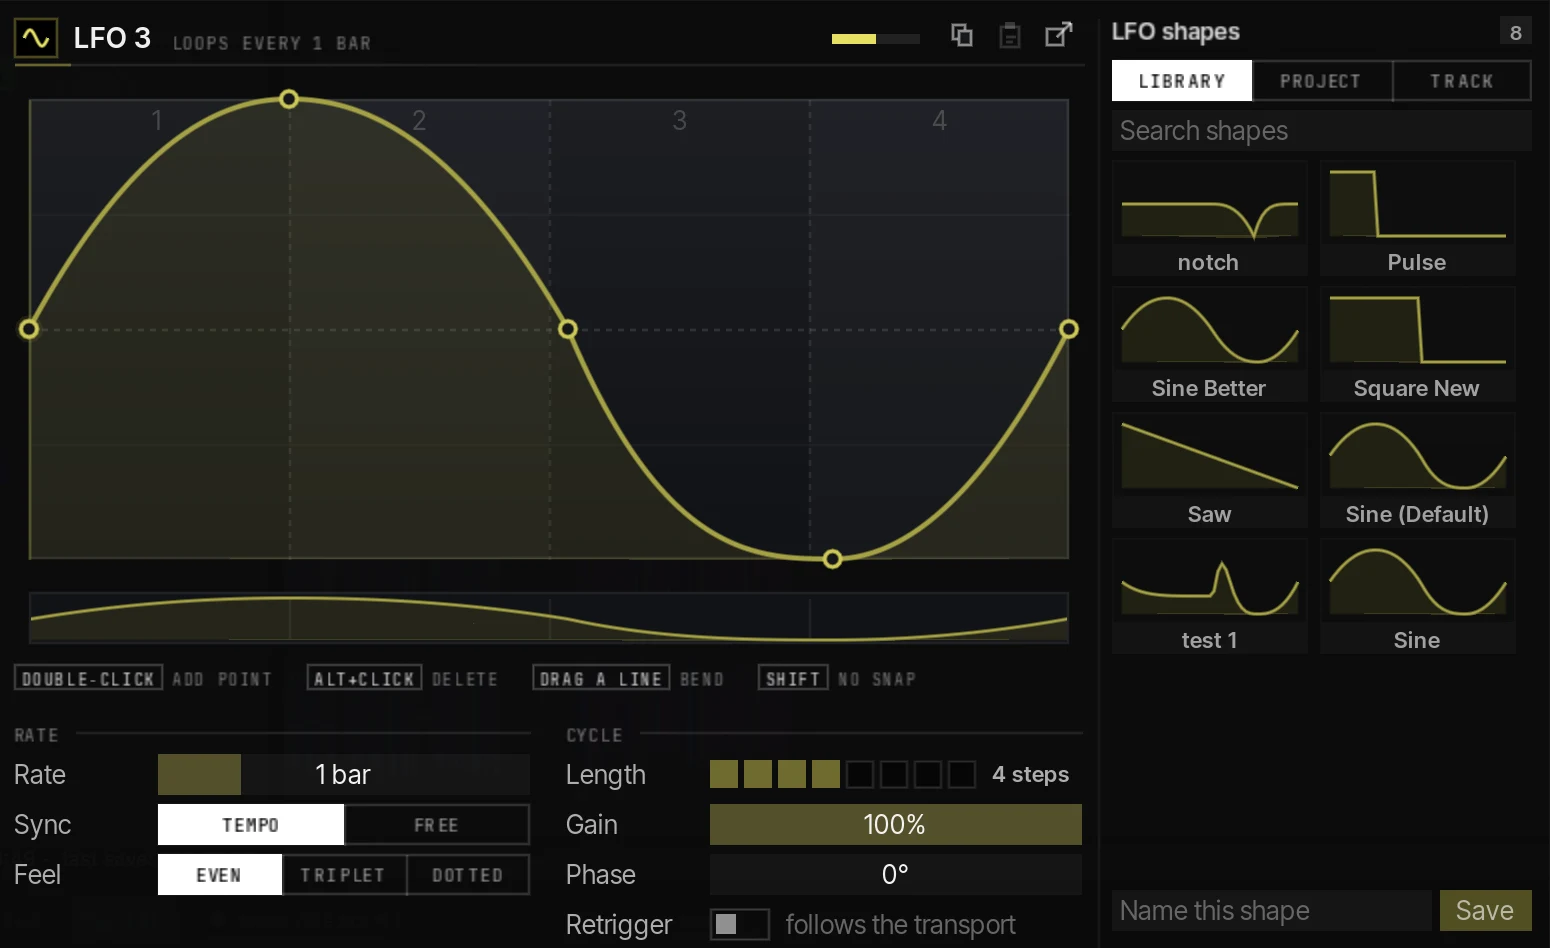
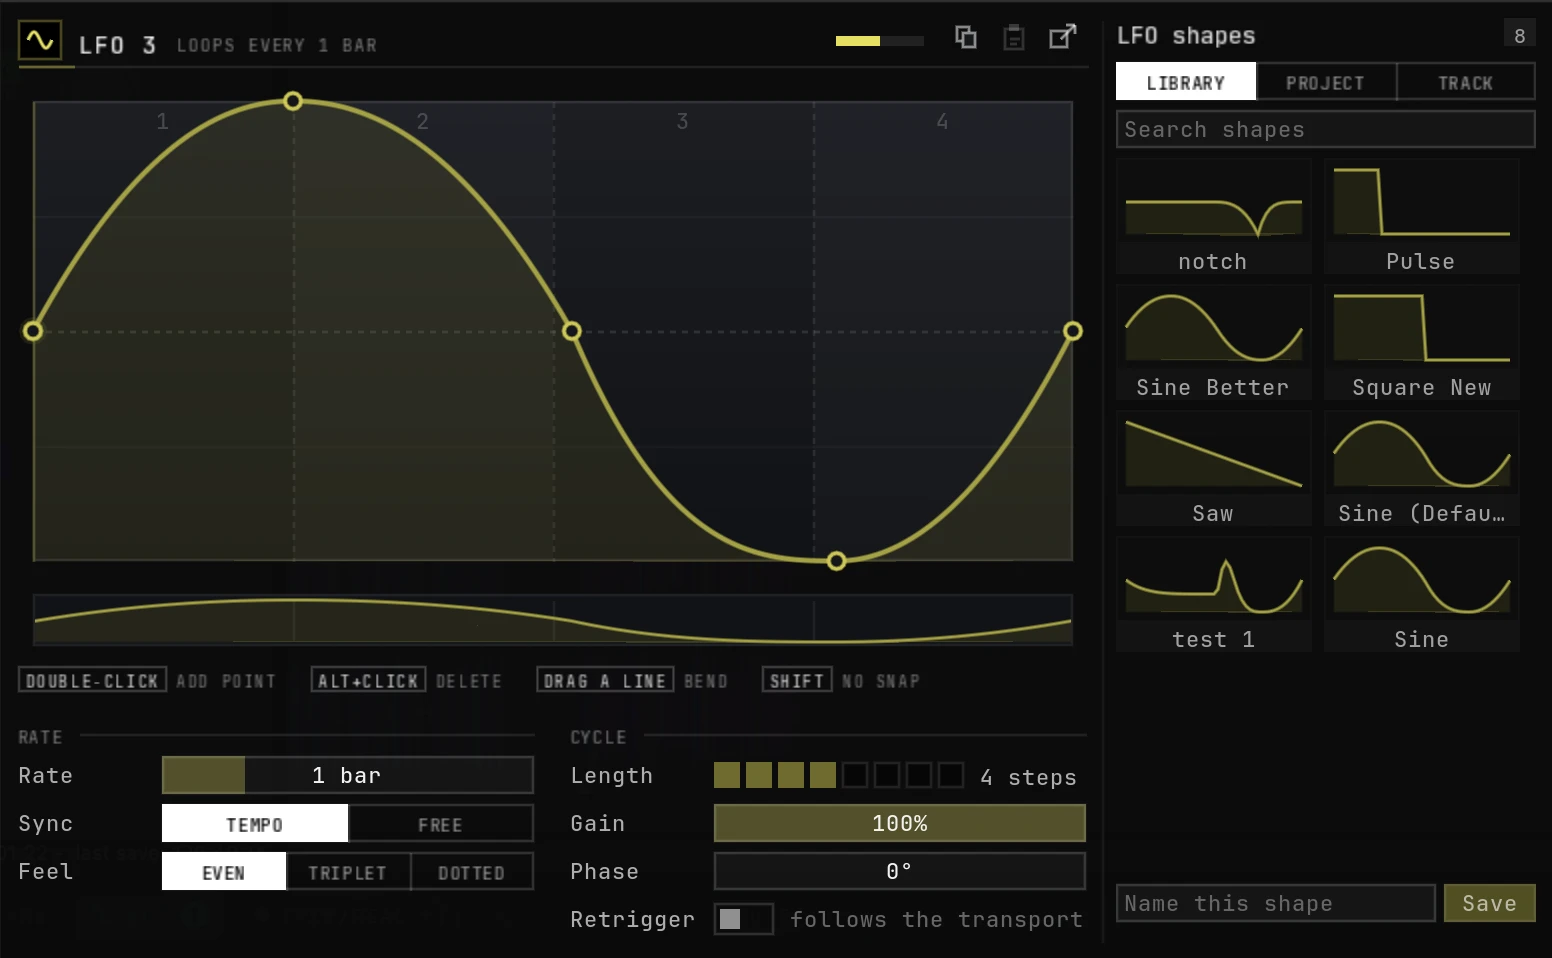
Modulator cards: editor shots for LFO, Envelope, Step, Random and Follower in a small popup sized to the shot

diff --git a/fx-devices/mods.js b/fx-devices/mods.js
@@ -71,12 +71,16 @@
     xy: { name: 'XY', color: C(8), pic: 'pad', text: 'Drag a dot around a pad to move two things at once, one on each axis.',
       x: b => clamp(.5 + .36 * Math.sin(b * 1.1)), y: b => clamp(.5 + .32 * Math.sin(b * 1.7 + 1.4)) },
     lfo: { name: 'LFO', color: C(2), text: 'Loops a shape you draw, locked to the song so it stays in phase when you jump around.',
-      editor: ['editor-lfo', 1550, 948, 'Draw the shape point by point, set the rate and cycle, and keep favourites in the shape library.'] },
-    step: { name: 'Step', color: C(7), text: 'A step sequencer of up to 64 steps. Drag across them to draw a pattern, with glide if you want it smooth.' },
-    random: { name: 'Random', color: C(6), text: 'New random values over time, free or synced to the grid. Smooth it into a drift or keep it as sample and hold.' },
-    envelope: { name: 'Envelope', color: C(3), text: 'Plays a shape you draw once per note, with the same drawing tools and library as the LFO.' },
+      editor: ['editor-lfo', 1552, 958, 'Draw the shape point by point, set the rate and cycle, and keep favourites in the shape library.'] },
+    step: { name: 'Step', color: C(7), text: 'A step sequencer of up to 64 steps. Drag across them to draw a pattern, with glide if you want it smooth.',
+      editor: ['editor-step', 984, 428, 'Drag across the steps to draw, right-drag to clear. Set the rate, length and glide.'] },
+    random: { name: 'Random', color: C(6), text: 'New random values over time, free or synced to the grid. Smooth it into a drift or keep it as sample and hold.',
+      editor: ['editor-random', 510, 392, 'Pick the timing, then how smooth it is and how often it changes.'] },
+    envelope: { name: 'Envelope', color: C(3), text: 'Plays a shape you draw once per note, with the same drawing tools and library as the LFO.',
+      editor: ['editor-envelope', 1556, 910, 'Draw the shape, choose which notes trigger it, and what happens when you let go.'] },
     adsr: { name: 'ADSR', color: C(4), text: 'The classic attack, hold, decay, sustain and release, started by each note. Drag the points to set it.' },
     follower: { name: 'Follower', color: C(5), pic: 'audio', text: 'Follows how loud the audio is. Listen to the track or a sidechain, and filter it to follow just the lows or highs.',
+      editor: ['editor-follower', 668, 446, 'Attack, release and gain, the input to listen to, and a filter.'],
       out: b => clamp(recent(HITS, b).reduce((a, [t, [, v]]) => a + v * (1 - Math.exp(-t / .04)) * Math.exp(-t * 2.4), 0) * .95) },
     transient: { name: 'Transient', color: C(9), pic: 'audio', text: 'Fires a short envelope on every hit in the audio and ignores the quiet bits. Make a kick pump anything.',
       out: b => clamp(recent(HITS, b).filter(([, [, v]]) => v > .45).reduce((a, [t]) => Math.max(a, t < .025 ? t / .025 : Math.exp(-(t - .025) * 5.5)), 0)) },
@@ -169,6 +173,9 @@
       const open = () => {
         dlg.querySelector('h3').textContent = m.name + ' editor';
         dlg.querySelector('.live-hint').textContent = cap;
+        // the shots are from a retina screen: show them at half size so they stay sharp, small ones a little bigger
+        const cw = Math.round(Math.max(w / 2, Math.min(w, 420)));
+        dlg.style.setProperty('--w', cw + 'px');
         dlg.querySelector('.mc-dlg-body').replaceChildren(h('img', { src: '/fx-devices/img/' + img + '.webp', width: w, height: hh, alt: 'The ' + m.name + ' editor in FX Devices' }));
         if (typeof dlg.showModal === 'function') dlg.showModal(); else dlg.setAttribute('open', '');
       };

diff --git a/fx-devices/mk.css b/fx-devices/mk.css
@@ -617,7 +617,10 @@ h2 { font: 400 clamp(40px, 6vw, 92px)/.94 var(--f-display); text-transform: uppe
 .mc.can-open { cursor: pointer; }
 .mc-open { margin-top: auto; padding-top: 14px; font: 500 10.5px var(--f-mono); letter-spacing: .14em; text-transform: uppercase; color: var(--c); }
 .mc.can-open:hover .mc-open { text-decoration: underline; text-underline-offset: 3px; }
-.mc-dlg { width: min(1100px, calc(100vw - 32px)); }
+.mc-dlg { width: min(var(--w, 600px), calc(100vw - 32px)); min-width: min(360px, calc(100vw - 32px)); }
+.mc-dlg .live-head { flex-wrap: wrap; row-gap: 4px; }
+.mc-dlg .live-hint { order: 3; flex-basis: 100%; }
 .mc-dlg .live-hint { text-transform: none; letter-spacing: 0; font: 400 13px var(--f-ui); color: var(--ink-2); white-space: normal; }
 .mc-dlg-body { padding: 0; background: #000; }
 .mc-dlg-body img { display: block; width: 100%; height: auto; }
+.mc-dlg .live-head h3 { margin-right: auto; }
